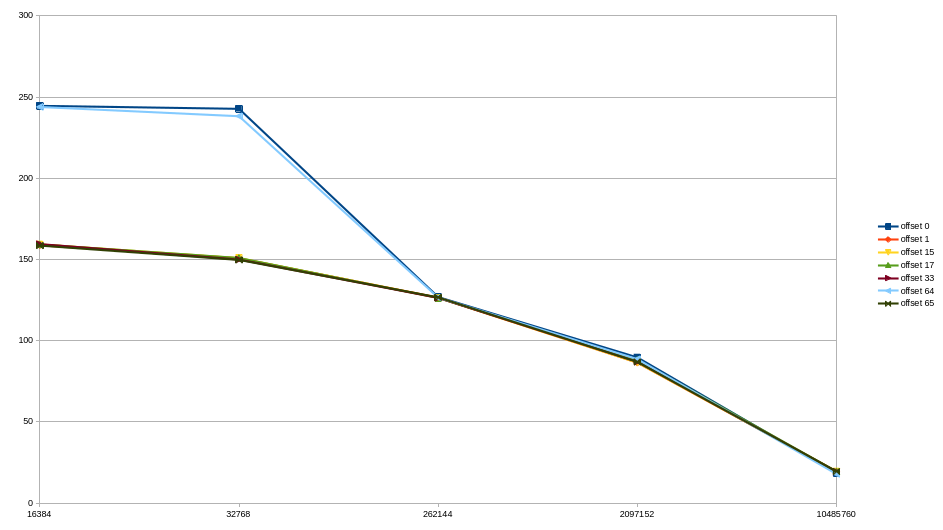
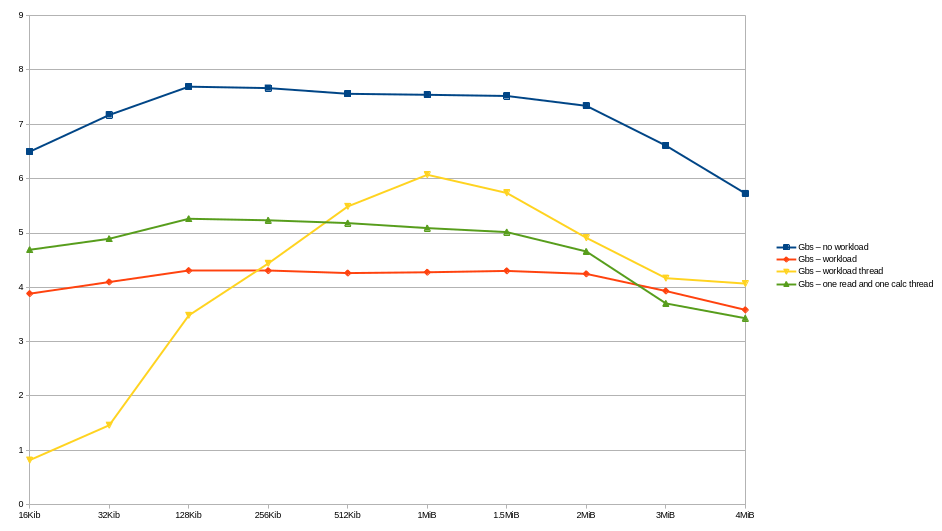
ADDED testing of chunking files for higher performance

diff --git a/rep_test.c b/rep_test.c
@@ -64,17 +64,75 @@ typedef struct
 {
     char* name;
     uint64_t size;
-    void (*function)(uint8_t* buffer, uint64_t inner_loop, uint64_t outer_loop, uint64_t pt_adance);
 } Test;
 
-Test tests[] =
+const Test tests[] =
 {
-    {"16Kib", 16 * KiB, cache_sets_test_asm},
-    {"32Kib", 32 * KiB, cache_sets_test_asm},
-    {"256KiB", 256 * KiB, cache_sets_test_asm},
-    {"2MiB", 2 * MiB, cache_sets_test_asm},
-    {"10MiB", 10 * MiB, cache_sets_test_asm},
+    {"16Kib", 16 * KiB},
+    {"32Kib", 32 * KiB},
+    {"128Kib", 128 * KiB},
+    {"256Kib", 256 * KiB},
+    {"512Kib", 512 * KiB},
+    {"1MiB", 1 * MiB},
+    {"1.5MiB", 1.5 * MiB},
+    {"2MiB", 2 * MiB},
+    {"3MiB", 3 * MiB},
+    {"4MiB", 4 * MiB}
 };
+
+uint64_t simulate_work(uint8_t* info, uint64_t index)
+{
+    uint64_t results0 = 0;
+
+    for (uint64_t i = 0; i < tests[index].size; ++i)
+    {
+        results0 += info[i];
+    }
+
+    return results0;
+}
+
+#include <pthread.h>
+enum : uint8_t
+{
+    BUFFER_CALCULATED,
+    BUFFER_READ
+};
+
+typedef struct
+{
+    uint8_t* bufferA;
+    uint8_t* bufferB;
+    int fd;
+    uint32_t index;
+    uint64_t total_size;
+    uint8_t* bufferA_state;
+    uint8_t* bufferB_state;
+    uint8_t* finish;
+    pthread_mutex_t* mutex;
+} Thread_Info;
+
+void* read_buffer(void* args)
+{
+    Thread_Info* info = (Thread_Info*)args;
+
+    uint64_t bytes_read = 0;
+    while (bytes_read < info->total_size)
+    {
+        if (*info->bufferA_state == BUFFER_CALCULATED)
+        {
+            bytes_read += (uint64_t)read(info->fd, info->bufferA, tests[info->index].size);
+            *info->bufferA_state = BUFFER_READ;
+        }
+        if (*info->bufferB_state == BUFFER_CALCULATED)
+        {
+            bytes_read += (uint64_t)read(info->fd, info->bufferB, tests[info->index].size);
+            *info->bufferB_state = BUFFER_READ;
+        }
+    }
+    *info->finish = 1;
+    return NULL;
+}
 
 
 int main(int argc, const char* argv[])
@@ -83,48 +141,81 @@ int main(int argc, const char* argv[])
         printf("WARNING: No args. Usage: [*testfile] (if applicable)\n");
 
 
-    Repetition_tester tester = repetition_tester_init(argv[1], 0, 5);
-    tester.bytes_expected = GiB;
-    uint8_t* buffer = mmap(NULL, GiB, PROT_READ | PROT_WRITE, MAP_PRIVATE | MAP_ANONYMOUS | MAP_POPULATE, 0, 0);
+    Repetition_tester tester = repetition_tester_init(argv[1], TEST_FILE | TEST_PAGE_FAULTS, 5);
+    printf("expected bytes: %lu\n", tester.bytes_expected);
+
+    uint8_t* buffer = mmap(NULL, tester.bytes_expected, PROT_READ | PROT_WRITE, MAP_PRIVATE | MAP_ANONYMOUS, 0, 0);
+    read(tester.fd, buffer, tester.bytes_expected);
+    uint64_t truth = 0;
+    for (uint64_t index = 0; index < tester.bytes_expected; ++index)
+    {
+        truth += buffer[index];
+    }
+
+    printf("truth: %lu\n", truth);
+    munmap(buffer, tester.bytes_expected);
+
+    lseek(tester.fd, 0, SEEK_SET);
+
+
+
     uint32_t cpu_1;
     uint32_t cpu_2;
 
 
-    uint8_t* to_copy = mmap(NULL, 64, PROT_READ | PROT_WRITE, MAP_PRIVATE | MAP_ANONYMOUS | MAP_POPULATE, 0,0);
-    for (uint64_t i = 0; i < 64; ++i)
-        to_copy[i] = i;
+    float gbs[array_count(tests)] = {0};
 
-    for (uint8_t i= 0; i < 64; ++i)
-        printf("%hhu,", buffer[320 + i]);
-    printf("\n");
-
-    test_begin(&tester, "movnt");
-    while(tester.state == TESTER_TESTING)
+    for (uint32_t i = 0; i < array_count(tests); ++i)
     {
-        const uint64_t start = get_rdtscp(&cpu_1);
-        save_multi_nt_asm(buffer, to_copy, 16777216);
-        const uint64_t end = get_rdtscp(&cpu_2);
-        while_testing(&tester, end - start, tester.bytes_expected, cpu_2 == cpu_1);
+        test_begin(&tester, tests[i].name);
+        while(tester.state == TESTER_TESTING)
+        {
+            const uint64_t start = get_rdtscp(&cpu_1);
+            uint8_t* bufferA = mmap(NULL, tests[i].size, PROT_READ | PROT_WRITE, MAP_PRIVATE | MAP_ANONYMOUS, 0, 0);
+            uint8_t* bufferB = mmap(NULL, tests[i].size, PROT_READ | PROT_WRITE, MAP_PRIVATE | MAP_ANONYMOUS, 0, 0);
+            uint64_t bytes_read = 0;
+            uint64_t sum = 0;
+
+            pthread_t thread1;
+            pthread_mutex_t mutex;
+            uint8_t bufferA_state = 0;
+            uint8_t bufferB_state = 0;
+            uint8_t finished = 0;
+            Thread_Info info = {bufferA, bufferB, tester.fd, i, tester.bytes_expected, &bufferA_state, &bufferB_state, &finished, &mutex};
+            pthread_create(&thread1, NULL, read_buffer, &info);
+            pthread_detach(thread1);
+
+            while (!finished)
+            {
+                if (bufferA_state)
+                {
+                    sum += simulate_work(bufferA, i);
+                    bufferA_state = BUFFER_CALCULATED;
+
+                }
+
+                if (bufferB_state)
+                {
+                    sum += simulate_work(bufferB, i);
+                    bufferB_state = BUFFER_CALCULATED;
+                }
+            }
+            printf("sum: %lu\n", sum);
+            const uint64_t end = get_rdtscp(&cpu_2);
+            //assert(sum == truth);
+            while_testing(&tester, end - start, tester.bytes_expected, cpu_2 == cpu_1);
+            munmap(bufferA, tests[i].size);
+            munmap(bufferB, tests[i].size);
+        }
+        gbs[i] = ((float)tester.bytes_expected / (1024*1024*1024))/ ((float)tester.results.min / tester.rdtsc_freq);
+
+        print_results(&tester);
     }
-    print_results(&tester);
 
-    for (uint8_t i= 0; i < 64; ++i)
-        printf("%hhu,", buffer[320 + i]);
-    printf("\n");
+    printf("\n\nchuck size,gbs\n");
+    for (uint64_t i = 0; i < array_count(tests); ++i)
+        printf("%s,%0.4f\n", tests[i].name, gbs[i]);
 
-    memset(buffer, 0, GiB);
-
-    test_begin(&tester, "mov");
-    while(tester.state == TESTER_TESTING)
-    {
-        const uint64_t start = get_rdtscp(&cpu_1);
-        save_multi_asm(buffer, to_copy, 16777216);
-        const uint64_t end = get_rdtscp(&cpu_2);
-        while_testing(&tester, end - start, tester.bytes_expected, cpu_2 == cpu_1);
-    }
-    print_results(&tester);
-
-    munmap(buffer,GiB);
 
     repetition_tester_close(&tester);
 

diff --git a/direct_asm/direct_asm.h b/direct_asm/direct_asm.h
@@ -49,3 +49,6 @@ extern void cache_sets_test_asm(uint8_t* buffer, uint64_t inner_loop_count, uint
 extern void save_multi_nt_asm(uint8_t* dest, uint8_t* src, uint64_t copy_times);
 extern void save_multi_asm(uint8_t* dest, uint8_t* src, uint64_t copy_times);
 
+extern void prefetch_test_asm(uint8_t* ptr);
+extern uint64_t basic_summation_asm(uint8_t* buffer);
+
